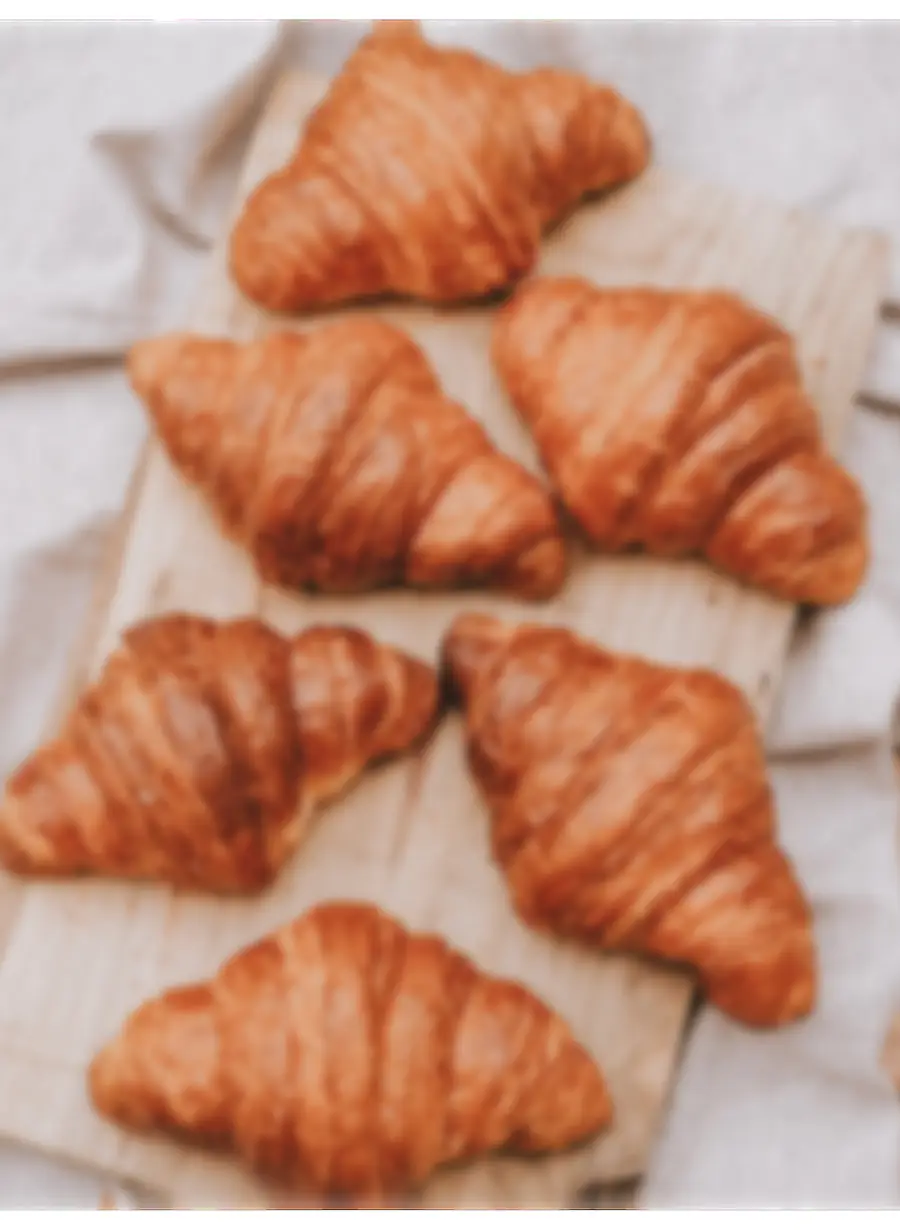
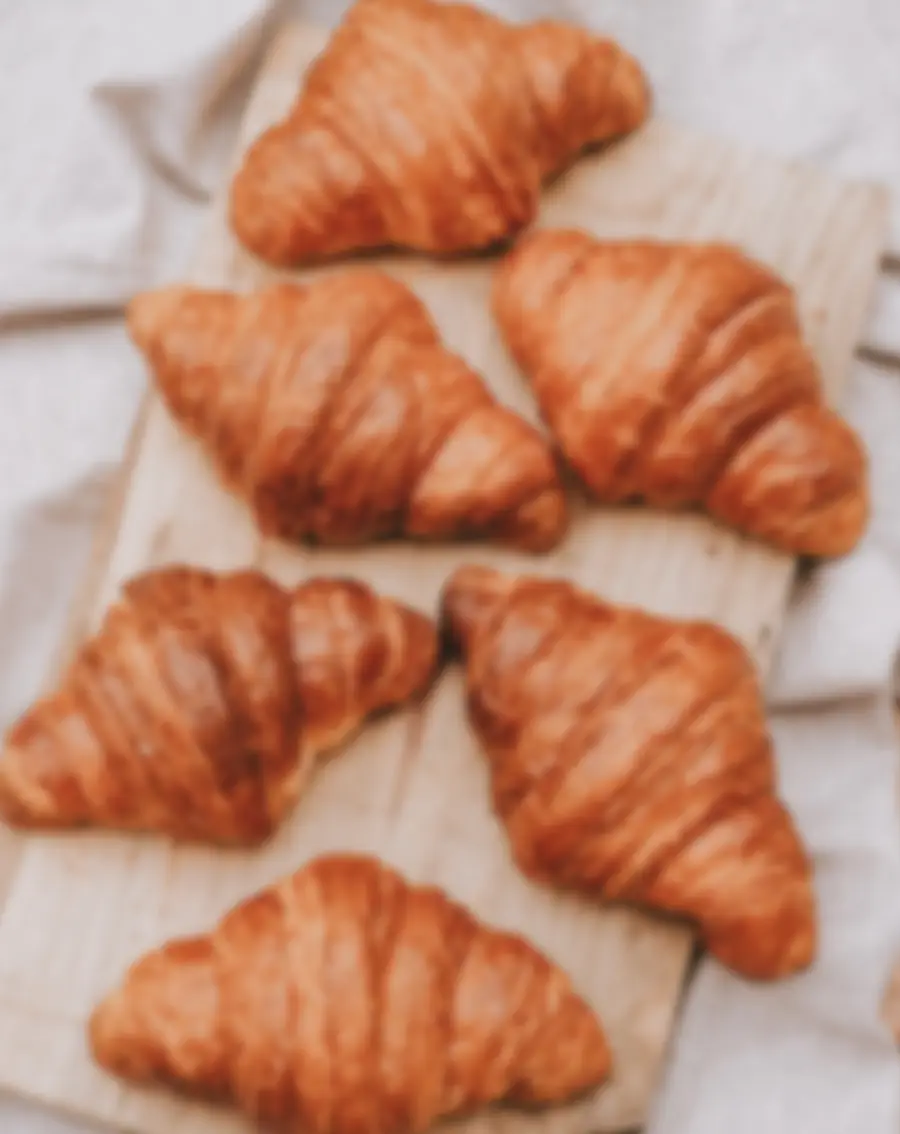
Prueba de diseño: encabezado sobre la portada, «Nuestra historia» y pie editorial
- Encabezado transparente sobre la foto: Carta, Nuestra historia, Eventos, Instagram y «Hacer pedido».
- «Nuestra historia» con el texto del manual, la foto del recetario (A.10: blanco y negro al 70 %) y la firma en la tipografía script del manual.
- Pie con logo grande, datos, «Todo artesanal, muuuy rico» con la firma y enlaces a las categorías.

Claude-Session: https://claude.ai/code/session_01RjduSkyHF6yA8LK8bgBNQW

diff --git a/index.html b/index.html
@@ -632,10 +632,57 @@ section.cat{border-bottom:0}
   .porfila ul.vars li{grid-template-columns:64px 1fr}.porfila ul.vars li .foto{width:64px}
 }
 @media (prefers-reduced-motion:reduce){.dest-lista a,.dest-foto img,.foto img{transition:none}}
+
+/* Encabezado sobre la portada: se va con el scroll; después queda el índice fijo de categorías */
+.barra-top{position:absolute;inset:0 0 auto;z-index:2;padding-top:env(safe-area-inset-top,0px)}
+.barra-top .wrap{display:flex;align-items:center;justify-content:space-between;gap:16px;padding-block:22px;min-height:0}
+.barra-top nav{display:flex;gap:30px}
+.barra-top a{color:var(--blanco);text-decoration:none;font-size:.72rem;letter-spacing:.24em;text-transform:uppercase;font-weight:500}
+.barra-top nav a{padding:6px 0;border-bottom:1px solid transparent}
+.barra-top nav a:hover{border-bottom-color:rgba(255,255,255,.8)}
+.barra-der{display:flex;align-items:center;gap:18px}
+.barra-ig{display:grid;place-items:center;width:40px;height:40px;border-radius:50%;transition:background .3s}
+.barra-ig:hover{background:rgba(255,255,255,.18)}
+.barra-cta{border:1px solid rgba(255,255,255,.85);border-radius:999px;padding:10px 22px;transition:background .3s,color .3s}
+.barra-cta:hover{background:var(--blanco);color:var(--canela)}
+.barra-top a:focus-visible{outline:2px solid var(--blanco);outline-offset:3px}
+@media (max-width:720px){.barra-top nav a:not(:first-child){display:none}.barra-top .wrap{padding-block:14px}.barra-cta{padding:9px 16px}}
+
+/* Firma del manual (Nurhalifa Script), coloreada con la paleta */
+.firma{display:block;width:clamp(170px,22vw,230px);aspect-ratio:632/123;background:var(--canela);-webkit-mask:url("recursos/firma.png") center/contain no-repeat;mask:url("recursos/firma.png") center/contain no-repeat}
+
+/* Nuestra historia: texto del manual + foto del recetario (A.10: blanco y negro, 70 % de opacidad) */
+.historia{padding-block:clamp(72px,10vw,128px) 0}
+.hist-grid{display:grid;grid-template-columns:minmax(0,5fr) minmax(0,6fr);gap:clamp(36px,7vw,96px);align-items:center}
+.hist-foto{position:relative;aspect-ratio:3/4;border-radius:24px;overflow:hidden;background:var(--blanco)}
+.hist-foto img{width:100%;height:100%;object-fit:cover;display:block;filter:grayscale(1);opacity:.7}
+.hist-txt{display:flex;flex-direction:column;gap:18px}
+.hist-txt h2{margin:0;font-weight:200;font-size:clamp(2.3rem,4.6vw,3.4rem);line-height:1.05;color:var(--canela);text-wrap:balance}
+.hist-txt p{margin:0;color:var(--tinta-suave);font-weight:300;font-size:1rem;line-height:1.75;max-width:52ch}
+.hist-txt .hist-lead{font-size:clamp(1.12rem,1.6vw,1.28rem);line-height:1.6;color:var(--tinta);font-weight:300}
+.hist-txt .firma{margin-top:8px}
+@media (max-width:820px){.hist-grid{grid-template-columns:1fr}.hist-foto{aspect-ratio:4/3;max-height:340px}}
+
+/* Pie editorial */
+footer.pie .wrap{gap:clamp(40px,6vw,64px)}
+.pie-logo{width:clamp(220px,34vw,360px);color:var(--blanco)}
+.pie-logo svg{width:100%;height:auto}
+.pie-cierre{display:flex;flex-direction:column;align-items:center;gap:6px;text-align:center}
+.pie-lema{font-size:.78rem;letter-spacing:.42em;margin-right:-.42em;text-transform:uppercase;color:var(--blanco);font-weight:500;line-height:2}
+.pie-cierre .firma{background:var(--blanco);width:clamp(160px,20vw,210px)}
+.pie-nav{display:flex;flex-wrap:wrap;justify-content:center;gap:10px 26px;padding-top:28px;border-top:1px solid rgba(255,255,255,.35);width:100%}
+.pie-nav a{color:var(--crema);text-decoration:none;font-size:.7rem;letter-spacing:.22em;text-transform:uppercase;font-weight:500}
+.pie-nav a:hover{color:var(--blanco);text-decoration:underline;text-underline-offset:4px}
 </style>
 
 <header class="portada">
   <h1 class="solo-lector">Gusto Casero · Panadería y pastelería artesanal en Montevideo</h1>
+  <div class="barra-top">
+    <div class="wrap">
+      <nav aria-label="Secciones"><a href="#destacados">Carta</a><a href="#historia">Nuestra historia</a><a href="#eventos">Eventos</a></nav>
+      <div class="barra-der"><a class="barra-ig" href="https://instagram.com/gusto_casero" target="_blank" rel="noopener" aria-label="Instagram de Gusto Casero"><svg viewBox="0 0 24 24" width="20" height="20" fill="none" stroke="currentColor" stroke-width="1.4" aria-hidden="true"><rect x="3" y="3" width="18" height="18" rx="5"/><circle cx="12" cy="12" r="4.2"/><circle cx="17.3" cy="6.7" r=".9" fill="currentColor" stroke="none"/></svg></a><a class="barra-cta" href="#destacados">Hacer pedido</a></div>
+    </div>
+  </div>
   <div class="wrap">
     <div class="ilus-lado" aria-hidden="true" data-ilus="croissant torta flores jarra"></div>
     <div class="etiqueta">
@@ -669,6 +716,20 @@ section.cat{border-bottom:0}
   <div class="wrap">
     <div class="dest-head"><span class="eyebrow">Elegí una categoría</span><h2 id="dest-tit">Nuestra carta</h2></div>
     <ul class="dest-lista" id="dest-lista"></ul>
+  </div>
+</section>
+
+<section class="historia" id="historia" aria-labelledby="hist-tit">
+  <div class="wrap hist-grid">
+    <div class="hist-foto" aria-hidden="true"><img src="recursos/recetario.webp" alt="" loading="lazy" width="900" height="1200"></div>
+    <div class="hist-txt">
+      <span class="eyebrow">Nuestra historia</span>
+      <h2 id="hist-tit">Gustos que llenan el alma</h2>
+      <p class="hist-lead">Con el aroma a pan recién horneado que danzaba por los rincones de la cocina de mamá leudó nuestro propósito: invitarte a viajar en el tiempo a través del sabor, con gustos que remitan a tu casa, a tu infancia, a las mujeres que te demostraron su amor a través de la cocina.</p>
+      <p>Somos Victoria y Josefina, hermanas, colmadas de recetas heredadas, con la misión de integrar el pasado para presentar una cocina contemporánea. Para nosotras, se trata de ofrecerte gustos que se sientan reales, familiares, elaborados de manera artesanal con productos frescos, de calidad. Porque nos importa.</p>
+      <p>Porque queremos dar el mismo amor que recibimos. Porque queremos que te puedas llevar a casa una porción de la nuestra y saborear gustos cercanos, gustos que llenan el alma, gustos caseros.</p>
+      <span class="firma" role="img" aria-label="Gusto Casero"></span>
+    </div>
   </div>
 </section>
 
@@ -793,12 +854,15 @@ section.cat{border-bottom:0}
 
 <footer class="pie">
   <div class="wrap">
+    <div class="pie-logo" role="img" aria-label="Atelier Gusto Casero"></div>
     <dl id="pie-datos">
       <div><dt>Dirección</dt><dd>Solano García 2405</dd></div>
       <div><dt>Horario</dt><dd><span class="largo">Martes a sábado, 9 a 19 h</span><span class="corto">Mar. a sáb., 9 a 19 h</span></dd></div>
       <div><dt>WhatsApp</dt><dd class="tel"><a href="https://wa.me/59898747114" target="_blank" rel="noopener">098 747 114</a></dd></div>
       <div><dt>Instagram</dt><dd><a href="https://instagram.com/gusto_casero" target="_blank" rel="noopener">@gusto_casero</a></dd></div>
     </dl>
+    <div class="pie-cierre"><span class="pie-lema">Todo artesanal,<br>muuuy rico</span><span class="firma" role="img" aria-label="Gusto Casero"></span></div>
+    <nav class="pie-nav" id="pie-nav" aria-label="Categorías"></nav>
   </div>
 </footer>
 
@@ -1256,6 +1320,8 @@ C.forEach(c=>{
 });
 document.getElementById("indice").innerHTML=idx+'<li><a href="#eventos">Eventos</a></li>';
 document.getElementById("catalogo").innerHTML=html;
+document.querySelector(".pie-logo").innerHTML=document.querySelector(".etiqueta .logo").innerHTML;
+document.getElementById("pie-nav").innerHTML=C.map(c=>`<a href="#${c.id}">${c.nombre}</a>`).join("")+'<a href="#eventos">Eventos</a>';
 
 /* Categorías con foto: cada tarjeta lleva directo a su sección de la carta */
 (function(){
